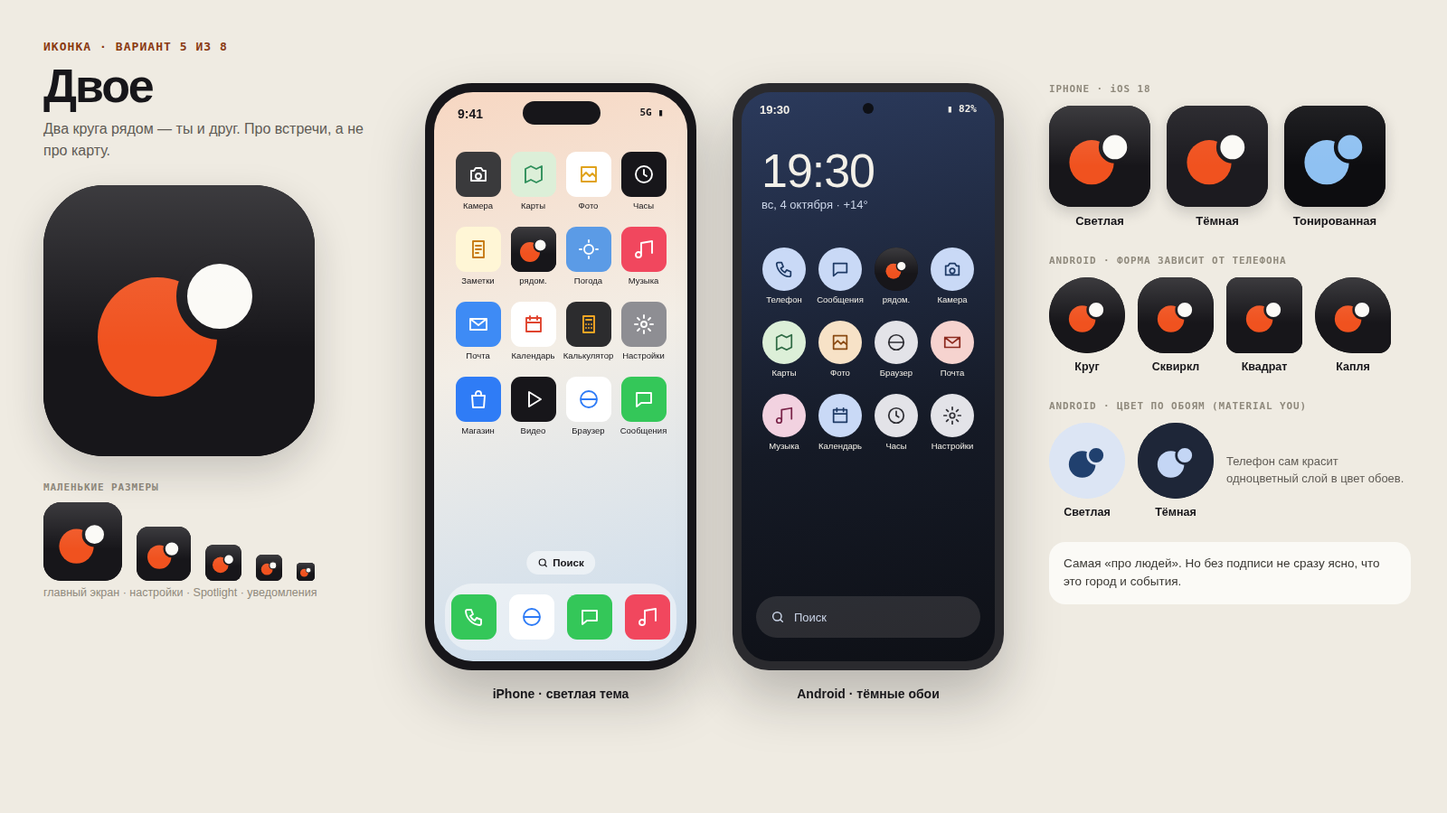
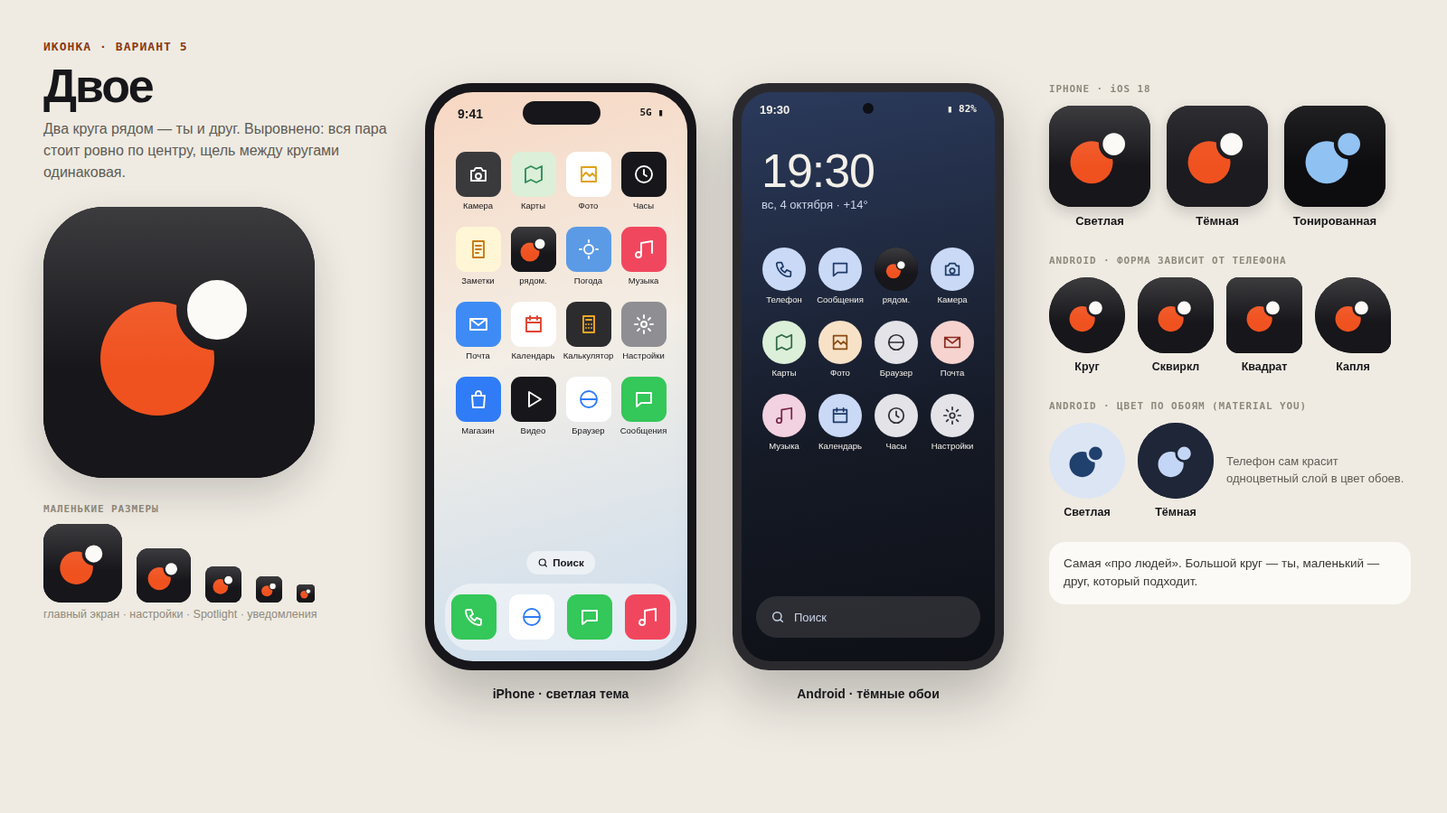
Иконка «Двое»: выровнено + варианты 9 и 10; расписание робота — через Supabase pg_cron
Claude-Session: https://claude.ai/code/session_01FGWnHsWFev2gXZTWiqPAHD

diff --git a/design/screens/V6IconSheet.dc.html b/design/screens/V6IconSheet.dc.html
@@ -17,7 +17,7 @@ body{margin:0}
 </helmet>
 <div style="width: 1600px; height: 900px; position: relative; box-sizing: border-box; padding: 44px 48px; background: #EFEBE2; font-family: 'Golos Text', sans-serif; color: #17161A">
 <div style="position: absolute; left: 48px; top: 44px; width: 380px">
-<div style="font-family: 'JetBrains Mono', monospace; font-size: 13px; font-weight: 600; letter-spacing: 0.08em; color: #8A3A12">ИКОНКА · ВАРИАНТ {{c}} ИЗ 8</div>
+<div style="font-family: 'JetBrains Mono', monospace; font-size: 13px; font-weight: 600; letter-spacing: 0.08em; color: #8A3A12">ИКОНКА · ВАРИАНТ {{c}}</div>
 <div style="margin-top: 6px; font-family: 'Geologica', sans-serif; font-size: 52px; font-weight: 800; letter-spacing: -0.04em">{{name}}</div>
 <div style="margin-top: 6px; font-size: 16px; line-height: 1.5; color: #5F5B55">{{idea}}</div>
 <div style="margin-top: 26px; animation: v6isIn 500ms ease both"><dc-import name="V6Icon" concept="{{c}}" mode="light" shape="ios" size="300" hint-size="300px,300px"></dc-import></div>
@@ -70,7 +70,7 @@ body{margin:0}
 </div>
 </div>
 </x-dc>
-<script type="text/x-dc" data-dc-script data-props='{"concept":{"editor":"int","default":1,"min":1,"max":8},"$preview":{"width":1600,"height":900}}'>
+<script type="text/x-dc" data-dc-script data-props='{"concept":{"editor":"int","default":1,"min":1,"max":10},"$preview":{"width":1600,"height":900}}'>
 class Component extends DCLogic {
   renderVals() {
     const c = Number(this.props.concept ?? 1) || 1;
@@ -78,10 +78,12 @@ class Component extends DCLogic {
       ['р.', 'Первая буква и точка из названия. Строго, как у больших приложений.', 'Лучше всех держится на маленьких размерах и в тонированной теме. Точка — та же, что в «рядом.».'],
       ['Кисть', '«р» от руки — как пишется на заставке. Тёплая и живая.', 'Связана с заставкой: запуск продолжает иконку. На тёмном фоне смотрится дорого.'],
       ['Слово', 'Целиком «рядом.» — сразу понятно, что за приложение.', 'На главном экране буквы мелкие, в 29 px почти не читаются. Подходит скорее для App Store-обложки.'],
-      ['Двое', 'Два круга рядом — ты и друг. Про встречи, а не про карту.', 'Самая «про людей». Но без подписи не сразу ясно, что это город и события.'],
+      ['Двое', 'Два круга рядом — ты и друг. Выровнено: вся пара стоит ровно по центру, щель между кругами одинаковая.', 'Самая «про людей». Большой круг — ты, маленький — друг, который подходит.'],
       ['Пин', 'Метка на карте, внутри — точка. Понятно, что это про места.', 'Понятна всем, но таких иконок много — легко спутать с картами.'],
       ['Бамп', 'Круги расходятся от точки — рядом кто-то есть.', 'Хорошо передаёт «кто-то рядом» и бамп. В тонированной теме — как радар.'],
-      ['Город', 'Кусочек карты Алматы с твоей точкой и конусом взгляда — как на экране карты.', 'Самая «наша»: одно в одно с картой внутри. В 29 px улицы сливаются, остаётся точка — и это нормально.']][c - 1];
+      ['Город', 'Кусочек карты Алматы с твоей точкой и конусом взгляда — как на экране карты.', 'Самая «наша»: одно в одно с картой внутри. В 29 px улицы сливаются, остаётся точка — и это нормально.'],
+      ['Двое ровно', 'Два одинаковых круга рядом — ты и друг на равных.', 'Самая спокойная и симметричная. Читается в любом размере, похожа на «двоеточие» — поэтому оранжевый слева обязателен.'],
+      ['Двое вместе', 'Два круга заходят друг на друга — встретились.', 'Симметрично и про встречу. Белая щель между кругами держит форму даже в тонированной теме.']][c - 1];
     const ic = { cam: 'M4 8h3l2-3h6l2 3h3v11H4zM12 11a3 3 0 110 6 3 3 0 010-6z', map: 'M3 6l6-3 6 3 6-3v15l-6 3-6-3-6 3z', photo: 'M4 4h16v16H4zM4 15l5-5 4 4 3-3 4 4', clock: 'M12 3a9 9 0 110 18 9 9 0 010-18zM12 7v5l3 2', note: 'M6 3h12v18H6zM9 8h6M9 12h6M9 16h3', sun: 'M12 7a5 5 0 110 10 5 5 0 010-10zM12 2v2M12 20v2M2 12h2M20 12h2', music: 'M9 18V5l12-2v13M6 21a3 3 0 100-6 3 3 0 000 6z', mail: 'M3 6h18v12H3zM3 6l9 7 9-7', cal: 'M4 5h16v15H4zM4 10h16M8 3v4M16 3v4', gear: 'M12 9a3 3 0 110 6 3 3 0 010-6zM12 2v3M12 19v3M2 12h3M19 12h3M5 5l2 2M17 17l2 2M19 5l-2 2M7 17l-2 2', phone: 'M5 4h4l2 5-3 2a11 11 0 005 5l2-3 5 2v4a2 2 0 01-2 2A17 17 0 013 6a2 2 0 012-2z', chat: 'M4 5h16v11H9l-5 4z', web: 'M12 3a9 9 0 110 18 9 9 0 010-18zM3 12h18', calc: 'M6 3h12v18H6zM9 7h6M9 12h.01M12 12h.01M15 12h.01M9 16h.01M12 16h.01M15 16h.01', bag: 'M5 8h14l-1 13H6zM9 8V6a3 3 0 016 0v2', play: 'M7 4l13 8-13 8z' };
     const iosT = [['cam', 'Камера', '#3A3A3C', '#FFFFFF'], ['map', 'Карты', '#DCEFD8', '#2F8F5B'], ['photo', 'Фото', '#FFFFFF', '#E0A21B'], ['clock', 'Часы', '#17161A', '#FFFFFF'], ['note', 'Заметки', '#FFF6D6', '#C77A12'], ['me', 'рядом.'], ['sun', 'Погода', '#5B9BE6', '#FFFFFF'], ['music', 'Музыка', '#F1475E', '#FFFFFF'], ['mail', 'Почта', '#3E8BF5', '#FFFFFF'], ['cal', 'Календарь', '#FFFFFF', '#E0442F'], ['calc', 'Калькулятор', '#2C2C2E', '#F5A623'], ['gear', 'Настройки', '#8E8E93', '#FFFFFF'], ['bag', 'Магазин', '#2F7CF6', '#FFFFFF'], ['play', 'Видео', '#17161A', '#FFFFFF'], ['web', 'Браузер', '#FFFFFF', '#2F7CF6'], ['chat', 'Сообщения', '#34C759', '#FFFFFF']];
     const andT = [['phone', 'Телефон', '#C9D9F6', '#1F3B66'], ['chat', 'Сообщения', '#C9D9F6', '#1F3B66'], ['me', 'рядом.'], ['cam', 'Камера', '#C9D9F6', '#1F3B66'], ['map', 'Карты', '#DCEFD8', '#2F6B45'], ['photo', 'Фото', '#F7E2C7', '#8A4A12'], ['web', 'Браузер', '#E3E3E8', '#2F2F35'], ['mail', 'Почта', '#F6D3CF', '#8C2A1F'], ['music', 'Музыка', '#F2D2E0', '#7A2449'], ['cal', 'Календарь', '#C9D9F6', '#1F3B66'], ['clock', 'Часы', '#E3E3E8', '#2F2F35'], ['gear', 'Настройки', '#E3E3E8', '#2F2F35']];

diff --git a/design/screens/V6IconPair.dc.html b/design/screens/V6IconPair.dc.html
@@ -1,0 +1,47 @@
+<!doctype html>
+<html lang="ru">
+<head>
+<meta charset="utf-8">
+<title>Иконка «Двое»: три выровненных варианта</title>
+<script src="./support.js"></script>
+</head>
+<body>
+<x-dc>
+<helmet>
+<link rel="stylesheet" href="https://fonts.googleapis.com/css2?family=Geologica:wght@400;500;600;700;800&amp;family=Golos+Text:wght@400;500;600;700&amp;family=JetBrains+Mono:wght@400;500;600&amp;display=swap">
+<style>
+body{margin:0}
+</style>
+</helmet>
+<div style="width: 1600px; height: 780px; box-sizing: border-box; padding: 48px 56px; background: #EFEBE2; font-family: 'Golos Text', sans-serif; color: #17161A">
+<div style="font-family: 'JetBrains Mono', monospace; font-size: 13px; font-weight: 600; letter-spacing: 0.08em; color: #8A3A12">ИКОНКА · ВЫБОР ВЛАДЕЛЬЦА</div>
+<div style="margin-top: 8px; display: flex; justify-content: space-between; align-items: flex-end"><h1 style="margin: 0; font-family: 'Geologica', sans-serif; font-size: 52px; font-weight: 800; letter-spacing: -0.04em">«Двое» — выровнено</h1><div style="max-width: 560px; font-size: 15px; line-height: 1.5; color: #5F5B55">Вся пара стоит ровно по центру иконки, отступы до краёв одинаковые, между кругами — ровная щель цвета фона. Под каждой: тёмная, тонированная, Android и цвет по обоям, внизу — маленькие размеры.</div></div>
+<div style="margin-top: 30px; display: grid; grid-template-columns: repeat(3, minmax(0, 1fr)); gap: 22px">
+<div style="padding: 26px; border-radius: 30px; background: #FBFAF6; display: flex; flex-direction: column; align-items: center; gap: 18px">
+<div style="align-self: stretch"><div style="font-family: 'Geologica', sans-serif; font-size: 28px; font-weight: 800; letter-spacing: -0.02em">5 · Двое</div><div style="margin-top: 4px; font-size: 15px; color: #5F5B55">Большой — ты, маленький — друг. Пара по центру, щель ровная.</div></div>
+<dc-import name="V6Icon" concept="5" mode="light" shape="ios" size="240" hint-size="240px,240px"></dc-import>
+<div style="display: flex; gap: 12px; align-items: flex-end"><dc-import name="V6Icon" concept="5" mode="dark" shape="ios" size="64" hint-size="64px,64px"></dc-import><dc-import name="V6Icon" concept="5" mode="tinted" shape="ios" size="64" hint-size="64px,64px"></dc-import><dc-import name="V6Icon" concept="5" mode="light" shape="circle" size="64" hint-size="64px,64px"></dc-import><dc-import name="V6Icon" concept="5" mode="mono" shape="circle" size="64" hint-size="64px,64px"></dc-import><dc-import name="V6Icon" concept="5" mode="monodark" shape="circle" size="64" hint-size="64px,64px"></dc-import></div>
+<div style="display: flex; gap: 14px; align-items: flex-end"><dc-import name="V6Icon" concept="5" mode="light" shape="ios" size="60" hint-size="60px,60px"></dc-import><dc-import name="V6Icon" concept="5" mode="light" shape="ios" size="40" hint-size="40px,40px"></dc-import><dc-import name="V6Icon" concept="5" mode="light" shape="ios" size="29" hint-size="29px,29px"></dc-import><dc-import name="V6Icon" concept="5" mode="light" shape="ios" size="20" hint-size="20px,20px"></dc-import></div>
+</div>
+<div style="padding: 26px; border-radius: 30px; background: #FBFAF6; display: flex; flex-direction: column; align-items: center; gap: 18px">
+<div style="align-self: stretch"><div style="font-family: 'Geologica', sans-serif; font-size: 28px; font-weight: 800; letter-spacing: -0.02em">9 · Двое ровно</div><div style="margin-top: 4px; font-size: 15px; color: #5F5B55">Два одинаковых круга, строго симметрично.</div></div>
+<dc-import name="V6Icon" concept="9" mode="light" shape="ios" size="240" hint-size="240px,240px"></dc-import>
+<div style="display: flex; gap: 12px; align-items: flex-end"><dc-import name="V6Icon" concept="9" mode="dark" shape="ios" size="64" hint-size="64px,64px"></dc-import><dc-import name="V6Icon" concept="9" mode="tinted" shape="ios" size="64" hint-size="64px,64px"></dc-import><dc-import name="V6Icon" concept="9" mode="light" shape="circle" size="64" hint-size="64px,64px"></dc-import><dc-import name="V6Icon" concept="9" mode="mono" shape="circle" size="64" hint-size="64px,64px"></dc-import><dc-import name="V6Icon" concept="9" mode="monodark" shape="circle" size="64" hint-size="64px,64px"></dc-import></div>
+<div style="display: flex; gap: 14px; align-items: flex-end"><dc-import name="V6Icon" concept="9" mode="light" shape="ios" size="60" hint-size="60px,60px"></dc-import><dc-import name="V6Icon" concept="9" mode="light" shape="ios" size="40" hint-size="40px,40px"></dc-import><dc-import name="V6Icon" concept="9" mode="light" shape="ios" size="29" hint-size="29px,29px"></dc-import><dc-import name="V6Icon" concept="9" mode="light" shape="ios" size="20" hint-size="20px,20px"></dc-import></div>
+</div>
+<div style="padding: 26px; border-radius: 30px; background: #FBFAF6; display: flex; flex-direction: column; align-items: center; gap: 18px">
+<div style="align-self: stretch"><div style="font-family: 'Geologica', sans-serif; font-size: 28px; font-weight: 800; letter-spacing: -0.02em">10 · Двое вместе</div><div style="margin-top: 4px; font-size: 15px; color: #5F5B55">Круги заходят друг на друга — встретились.</div></div>
+<dc-import name="V6Icon" concept="10" mode="light" shape="ios" size="240" hint-size="240px,240px"></dc-import>
+<div style="display: flex; gap: 12px; align-items: flex-end"><dc-import name="V6Icon" concept="10" mode="dark" shape="ios" size="64" hint-size="64px,64px"></dc-import><dc-import name="V6Icon" concept="10" mode="tinted" shape="ios" size="64" hint-size="64px,64px"></dc-import><dc-import name="V6Icon" concept="10" mode="light" shape="circle" size="64" hint-size="64px,64px"></dc-import><dc-import name="V6Icon" concept="10" mode="mono" shape="circle" size="64" hint-size="64px,64px"></dc-import><dc-import name="V6Icon" concept="10" mode="monodark" shape="circle" size="64" hint-size="64px,64px"></dc-import></div>
+<div style="display: flex; gap: 14px; align-items: flex-end"><dc-import name="V6Icon" concept="10" mode="light" shape="ios" size="60" hint-size="60px,60px"></dc-import><dc-import name="V6Icon" concept="10" mode="light" shape="ios" size="40" hint-size="40px,40px"></dc-import><dc-import name="V6Icon" concept="10" mode="light" shape="ios" size="29" hint-size="29px,29px"></dc-import><dc-import name="V6Icon" concept="10" mode="light" shape="ios" size="20" hint-size="20px,20px"></dc-import></div>
+</div>
+</div>
+</div>
+</x-dc>
+<script type="text/x-dc" data-dc-script data-props='{"$preview":{"width":1600,"height":780}}'>
+class Component extends DCLogic {
+  renderVals() { return {}; }
+}
+</script>
+</body>
+</html>

diff --git a/design/screens/V6Icon.dc.html b/design/screens/V6Icon.dc.html
@@ -36,8 +36,16 @@ body{margin:0}
 <circle cx="83.5" cy="55.4" r="3.4" fill="{{p.b}}"></circle>
 </sc-if>
 <sc-if value="{{c5}}" hint-placeholder-val="{{ false }}">
-<circle cx="42" cy="56" r="22" fill="{{p.a}}"></circle>
-<circle cx="65" cy="41" r="14" fill="{{p.b}}" stroke="{{p.bg}}" stroke-width="4"></circle>
+<circle cx="42" cy="56" r="21" fill="{{p.a}}"></circle>
+<circle cx="64" cy="38" r="13" fill="{{p.b}}" stroke="{{p.bg}}" stroke-width="4"></circle>
+</sc-if>
+<sc-if value="{{c9}}" hint-placeholder-val="{{ false }}">
+<circle cx="31" cy="50" r="17" fill="{{p.a}}"></circle>
+<circle cx="69" cy="50" r="17" fill="{{p.b}}"></circle>
+</sc-if>
+<sc-if value="{{c10}}" hint-placeholder-val="{{ false }}">
+<circle cx="39" cy="50" r="21" fill="{{p.a}}"></circle>
+<circle cx="61" cy="50" r="21" fill="{{p.b}}" stroke="{{p.bg}}" stroke-width="4"></circle>
 </sc-if>
 <sc-if value="{{c6}}" hint-placeholder-val="{{ false }}">
 <path d="M50 17a24 24 0 0124 24c0 18-24 42-24 42S26 59 26 41a24 24 0 0124-24z" fill="{{p.a}}"></path>
@@ -61,7 +69,7 @@ body{margin:0}
 </svg>
 </div>
 </x-dc>
-<script type="text/x-dc" data-dc-script data-props='{"concept":{"editor":"int","default":1,"min":1,"max":8},"mode":{"editor":"enum","options":["light","dark","tinted","mono","monodark"],"default":"light"},"shape":{"editor":"enum","options":["ios","circle","squircle","rounded","teardrop","square"],"default":"ios"},"size":{"editor":"int","default":180,"min":16,"max":600},"$preview":{"width":180,"height":180}}'>
+<script type="text/x-dc" data-dc-script data-props='{"concept":{"editor":"int","default":1,"min":1,"max":10},"mode":{"editor":"enum","options":["light","dark","tinted","mono","monodark"],"default":"light"},"shape":{"editor":"enum","options":["ios","circle","squircle","rounded","teardrop","square"],"default":"ios"},"size":{"editor":"int","default":180,"min":16,"max":600},"$preview":{"width":180,"height":180}}'>
 class Component extends DCLogic {
   renderVals() {
     const c = Number(this.props.concept ?? 1) || 1;
@@ -77,7 +85,9 @@ class Component extends DCLogic {
       5: { bg: INK, a: O, b: CR },
       6: { bg: O, a: CR, b: O },
       7: { bg: INK, a: O, b: O },
-      8: { bg: PAPER, a: O, b: CR, c: 'rgba(23,22,26,0.13)', d: 'rgba(36,71,184,0.28)' }
+      8: { bg: PAPER, a: O, b: CR, c: 'rgba(23,22,26,0.13)', d: 'rgba(36,71,184,0.28)' },
+      9: { bg: INK, a: O, b: CR },
+      10: { bg: INK, a: O, b: CR }
     };
     const DK = '#1C1B20';
     const D = {
@@ -88,7 +98,9 @@ class Component extends DCLogic {
       5: { bg: DK, a: O, b: CR },
       6: { bg: DK, a: O, b: DK },
       7: { bg: DK, a: O, b: O },
-      8: { bg: DK, a: O, b: DK, c: 'rgba(243,240,232,0.13)', d: 'rgba(143,193,242,0.3)' }
+      8: { bg: DK, a: O, b: DK, c: 'rgba(243,240,232,0.13)', d: 'rgba(143,193,242,0.3)' },
+      9: { bg: DK, a: O, b: CR },
+      10: { bg: DK, a: O, b: CR }
     };
     const tone = (bg, fg, soft) => ({ bg, a: fg, b: c === 6 || c === 8 ? bg : c === 1 ? soft : fg, c: soft, d: soft });
     const T = { tinted: tone('#0D0D10', '#8FC1F2', 'rgba(143,193,242,0.32)'), mono: tone('#DCE5F4', '#20406E', 'rgba(32,64,110,0.25)'), monodark: tone('#1E2638', '#C4D6F5', 'rgba(196,214,245,0.28)') };
@@ -104,7 +116,7 @@ class Component extends DCLogic {
       hl: mode === 'mono' || mode === 'monodark' ? '0' : mode === 'light' ? '0.16' : '0.08',
       gid: 'v6icG' + c + mode + shape + size,
       tf: 'translate(50 50) scale(' + sc + ') translate(-50 -50)',
-      c1: c === 1, c2: c === 2, c3: c === 3, c4: c === 4, c5: c === 5, c6: c === 6, c7: c === 7, c8: c === 8
+      c1: c === 1, c2: c === 2, c3: c === 3, c4: c === 4, c5: c === 5, c6: c === 6, c7: c === 7, c8: c === 8, c9: c === 9, c10: c === 10
     };
   }
 }

diff --git a/design/screens/V6Icon10.dc.html b/design/screens/V6Icon10.dc.html
@@ -1,0 +1,28 @@
+<!doctype html>
+<html lang="ru">
+<head>
+<meta charset="utf-8">
+<title>Иконка 10: Двое вместе — iOS и Android</title>
+<script src="./support.js"></script>
+</head>
+<body>
+<x-dc>
+<helmet>
+<link rel="stylesheet" href="https://fonts.googleapis.com/css2?family=Geologica:wght@400;500;600;700;800&amp;family=Golos+Text:wght@400;500;600;700&amp;family=JetBrains+Mono:wght@400;500;600&amp;display=swap">
+<style>
+body{margin:0}
+@keyframes v6isIn{from{opacity:0;transform:translateY(12px)}to{opacity:1;transform:translateY(0)}}
+@keyframes v6isTap{0%,70%,100%{transform:scale(1)}78%{transform:scale(0.88)}86%{transform:scale(1.04)}}
+</style>
+</helmet>
+<div style="width: 1600px; height: 900px; position: relative; overflow: hidden">
+<dc-import name="V6IconSheet" concept="10" hint-size="1600px,900px"></dc-import>
+</div>
+</x-dc>
+<script type="text/x-dc" data-dc-script data-props='{"$preview":{"width":1600,"height":900}}'>
+class Component extends DCLogic {
+  renderVals() { return {}; }
+}
+</script>
+</body>
+</html>

diff --git a/design/screens/V6Icon9.dc.html b/design/screens/V6Icon9.dc.html
@@ -1,0 +1,28 @@
+<!doctype html>
+<html lang="ru">
+<head>
+<meta charset="utf-8">
+<title>Иконка 9: Двое ровно — iOS и Android</title>
+<script src="./support.js"></script>
+</head>
+<body>
+<x-dc>
+<helmet>
+<link rel="stylesheet" href="https://fonts.googleapis.com/css2?family=Geologica:wght@400;500;600;700;800&amp;family=Golos+Text:wght@400;500;600;700&amp;family=JetBrains+Mono:wght@400;500;600&amp;display=swap">
+<style>
+body{margin:0}
+@keyframes v6isIn{from{opacity:0;transform:translateY(12px)}to{opacity:1;transform:translateY(0)}}
+@keyframes v6isTap{0%,70%,100%{transform:scale(1)}78%{transform:scale(0.88)}86%{transform:scale(1.04)}}
+</style>
+</helmet>
+<div style="width: 1600px; height: 900px; position: relative; overflow: hidden">
+<dc-import name="V6IconSheet" concept="9" hint-size="1600px,900px"></dc-import>
+</div>
+</x-dc>
+<script type="text/x-dc" data-dc-script data-props='{"$preview":{"width":1600,"height":900}}'>
+class Component extends DCLogic {
+  renderVals() { return {}; }
+}
+</script>
+</body>
+</html>

diff --git a/docs/V6.md b/docs/V6.md
@@ -829,10 +829,11 @@
 - **«Следующие запуски»** — 3 ближайших с подписью «через 23 ч».
 - **«Сохранить расписание»** — запись в `robot_schedule`, тост «Каждый день в 08:40 — сохранено».
 
-**Как запускается:** cron GitHub нельзя менять из приложения. Поэтому:
-- `search.yml` и `covers.yml` запускаются **каждый час** (`5 * * * *`);
-- первым шагом проверяют `robot_schedule`: пора ли (и не на паузе ли робот). Не пора — выходят за 10 секунд.
-- Время — по Алматы (UTC+5).
+**Как запускается.** Расписание GitHub ненадёжное: 4 октября поиск на 08:40 стартовал только в 15:03, а часть запусков обложек не случилась вовсе. Поэтому время запуска решает Supabase, а не GitHub:
+- `pg_cron` в Supabase раз в 5 минут вызывает Edge Function `robot-tick`;
+- функция смотрит `robot_schedule` и флаг паузы. Пора — запускает `search.yml` или `covers.yml` через `workflow_dispatch` (токен `GITHUB_DISPATCH_TOKEN` в секретах Supabase);
+- cron в самих workflow остаётся запасным, раз в сутки: если за день не было ни одного запуска;
+- время — по Алматы (UTC+5).
 
 ### 10.4 Источники — `V6DevSources`
 
@@ -872,7 +873,7 @@
 
 **Доски:**
 - `V6IconAll` — все восемь.
-- `V6Icon1` … `V6Icon8` — каждый вариант:
+- `V6Icon1` … `V6Icon10` — каждый вариант:
   - iPhone и Android на главном экране;
   - светлая / тёмная / тонированная (iOS 18);
   - формы Android: круг, сквиркл, квадрат, капля;
@@ -892,7 +893,15 @@
 | 7 | Бамп | Расходящиеся круги |
 | 8 | Город | Кусочек карты с точкой и конусом |
 
-- Владелец выбирает. **Пока не выбрал — ставим вариант 2.**
+Дополнительно — три выровненных варианта «Двое» (доска `V6IconPair`): пара кругов стоит ровно по центру, щель между ними — цвета фона.
+
+| № | Название | Идея |
+|---|---|---|
+| 5 | Двое (выровнено) | Большой оранжевый — ты, маленький белый — друг, по диагонали |
+| 9 | Двое ровно | Два одинаковых круга рядом, симметрично |
+| 10 | Двое вместе | Круги заходят друг на друга — встретились |
+
+- Владельцу понравились «Двое». Он выбирает между 5, 9 и 10. **Пока не выбрал — ставим 5.**
 
 **Экспорт** — скрипт `npm run icons`: Playwright рендерит `V6Icon` с `shape="square"`, `size=1024` в `assets/icon/`.
 - `icon.png` — светлая.

diff --git a/docs/ROADMAP.md b/docs/ROADMAP.md
@@ -403,7 +403,7 @@
 - [ ] Вкладки **Карта · Рекомендации · Планы · Чаты · Профиль**, только иконки (`V6TabBar`): заливка чернилами 420 мс + пружина 520 мс, без точки под иконкой, бейджи «Зовут» и непрочитанные, долгое нажатие — подсказка с названием; вкладку «Люди» убрать (друзья — в Чатах и Профиле)
 - [ ] Везде «Подборка» → «Рекомендации» (тексты, заголовки, подсказки, пуши)
 - [ ] Верх карты `V6MapTop`: поиск → слои → фильтры → «+»; погода значком без фона; экран поиска с группами События · Места · Друзья
-- [ ] Иконка приложения: скрипт `npm run icons` (рендер `V6Icon`), вариант 2 до решения владельца; iOS light/dark/tinted, Android adaptive + monochrome (`V6.md` §11)
+- [ ] Иконка приложения: скрипт `npm run icons` (рендер `V6Icon`), «Двое» — вариант 5, пока владелец не выбрал между 5, 9 и 10; iOS light/dark/tinted, Android adaptive + monochrome (`V6.md` §11)
 - [ ] Скриншоты в `docs/progress/stage-23/`
 
 Итог:
@@ -484,7 +484,7 @@
 
 - [ ] Главная `V6Dev`: робот, 8 разделов, переключатели (`app_flags`)
 - [ ] «Искать сейчас» `V6DevRun`: Edge Function → `workflow_dispatch`, лог через Realtime (`robot_runs`, `robot_log`), «Стоп»
-- [ ] Расписание `V6DevSchedule`: колесо даты и времени, повтор, дни; `search.yml` и `covers.yml` раз в час сверяются с `robot_schedule`
+- [ ] Расписание `V6DevSchedule`: колесо даты и времени, повтор, дни; запускает Supabase (`pg_cron` → Edge Function `robot-tick` → `workflow_dispatch`), cron GitHub — только запасной раз в сутки
 - [ ] Источники `V6DevSources` (`search_topics` вместо `TOPICS` в коде), Согласование `V6DevQueue*`, Таблицы и правка `V6DevTables`, `V6DevRow`
 - [ ] Скриншоты в `docs/progress/stage-31/`
 
